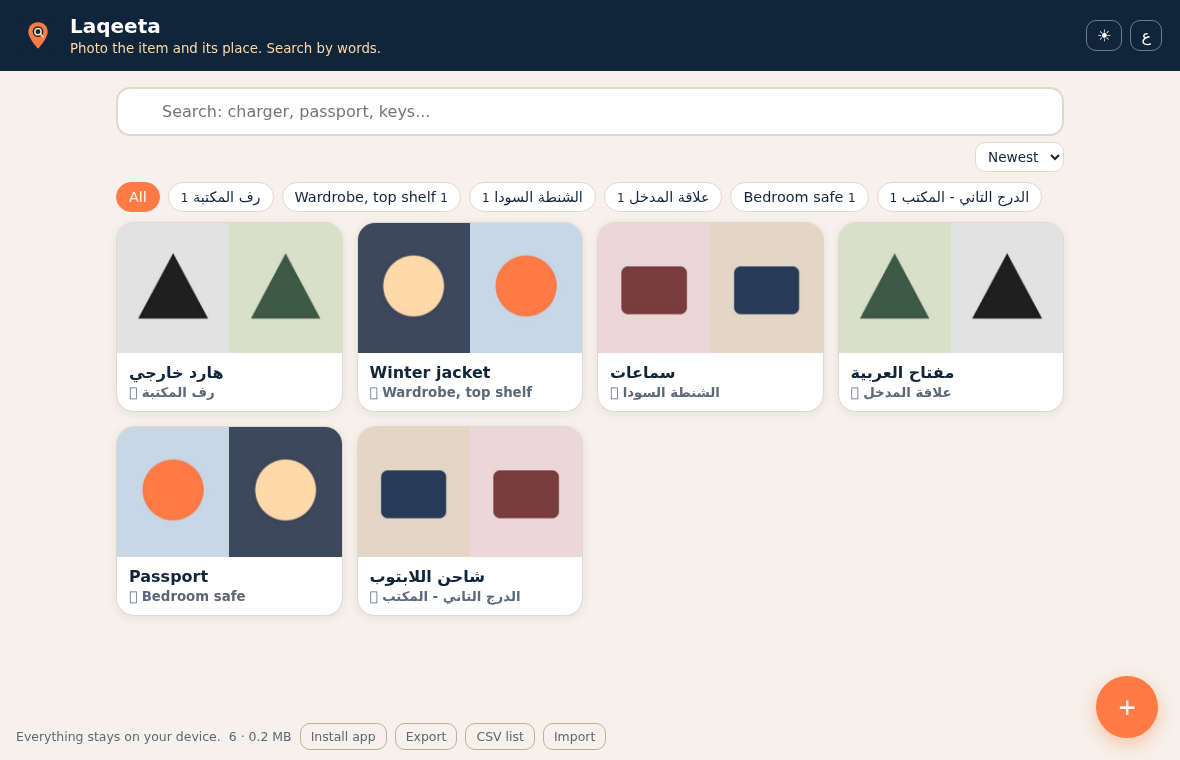
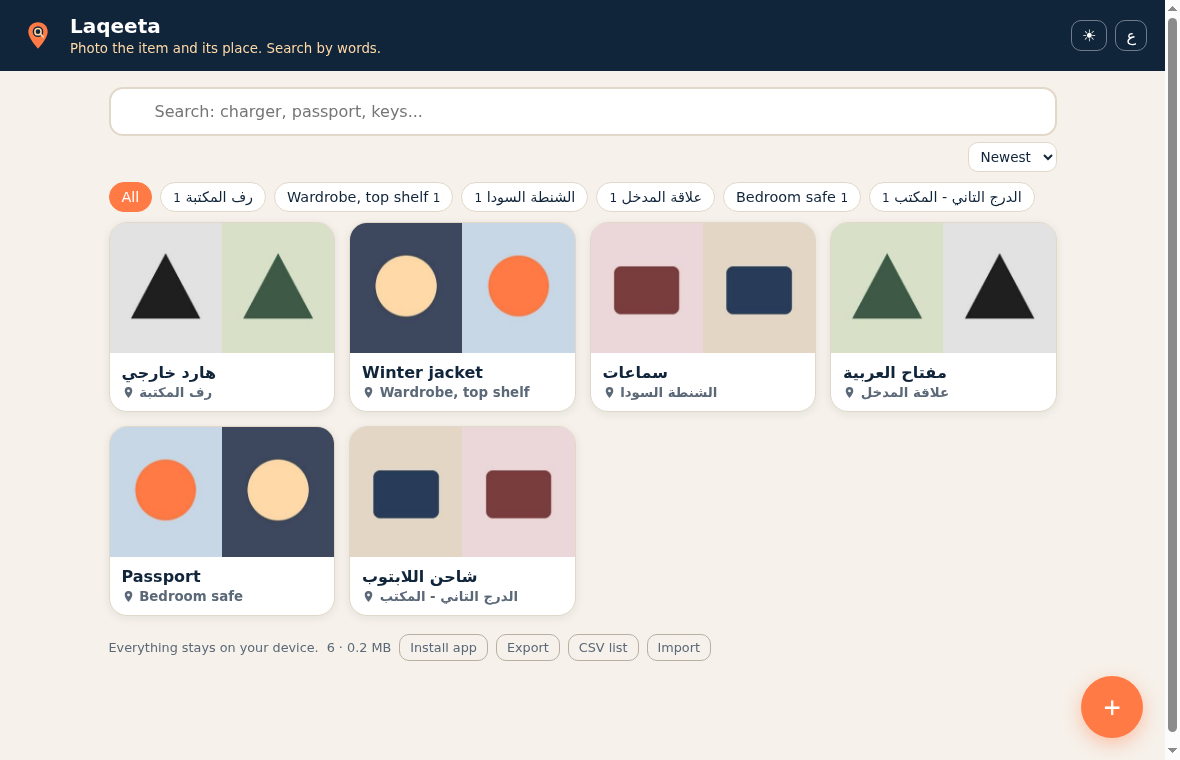
Footer in page flow, refreshed screenshots

diff --git a/docs/style.css b/docs/style.css
@@ -13,7 +13,7 @@ input,textarea{width:100%;padding:13px 14px;border:2px solid var(--line);border-
 .card div.t{padding:10px 12px}.card b{display:block}.card small{color:var(--mut)}.pin{color:#c2491a;font-weight:600}:root[data-theme=dark] .pin{color:#ff9d70}@media(prefers-color-scheme:dark){:root:not([data-theme=light]) .pin{color:#ff9d70}}
 .empty{text-align:center;color:var(--mut);padding:50px 10px}
 .fab{position:fixed;bottom:22px;inset-inline-end:22px;width:62px;height:62px;border-radius:50%;border:0;background:var(--or);color:#fff;font-size:2rem;box-shadow:0 6px 18px #ff7a4566;cursor:pointer}
-footer{background:var(--bg);position:fixed;bottom:0;padding-block:10px;bottom:0;inset-inline-start:0;padding:10px 16px;font-size:.78rem;color:var(--mut);display:flex;gap:8px;align-items:center;flex-wrap:wrap;max-width:calc(100% - 100px)}
+footer{max-width:980px;margin:0 auto;padding:6px 16px 110px;font-size:.8rem;color:var(--mut);display:flex;gap:8px;align-items:center;flex-wrap:wrap}
 button{font:inherit;cursor:pointer}.ghost{background:transparent;border:1px solid #b9b0a2;color:inherit;border-radius:10px;padding:5px 10px}header .ghost{border-color:#ffffff66;color:#fff}.btn{cursor:pointer}
 .primary{background:var(--or);color:#1a0d05;font-weight:700;border:0;border-radius:12px;padding:11px 20px}.danger{background:transparent;color:#c0392b;border:1px solid #c0392b;border-radius:12px;padding:10px 16px}
 dialog{background:var(--dlg);border:0;border-radius:22px;padding:20px;width:min(480px,94vw);max-height:92vh;overflow:auto;color:var(--ink)}dialog::backdrop{background:#10243a99}

diff --git a/docs/sw.js b/docs/sw.js
@@ -1,4 +1,4 @@
-const C='laqeeta-v4',F=['./','index.html','app.js','style.css','logo.svg','icon-192.png','icon-512.png','manifest.webmanifest'];
+const C='laqeeta-v5',F=['./','index.html','app.js','style.css','logo.svg','icon-192.png','icon-512.png','manifest.webmanifest'];
 self.addEventListener('install',e=>{self.skipWaiting();e.waitUntil(caches.open(C).then(c=>c.addAll(F)))});
 self.addEventListener('activate',e=>e.waitUntil(caches.keys().then(k=>Promise.all(k.filter(x=>x!=C).map(x=>caches.delete(x)))).then(()=>clients.claim())));
 self.addEventListener('fetch',e=>{if(e.request.method!='GET')return;e.respondWith(fetch(e.request).then(r=>{const cp=r.clone();caches.open(C).then(c=>c.put(e.request,cp));return r}).catch(()=>caches.match(e.request)))});
